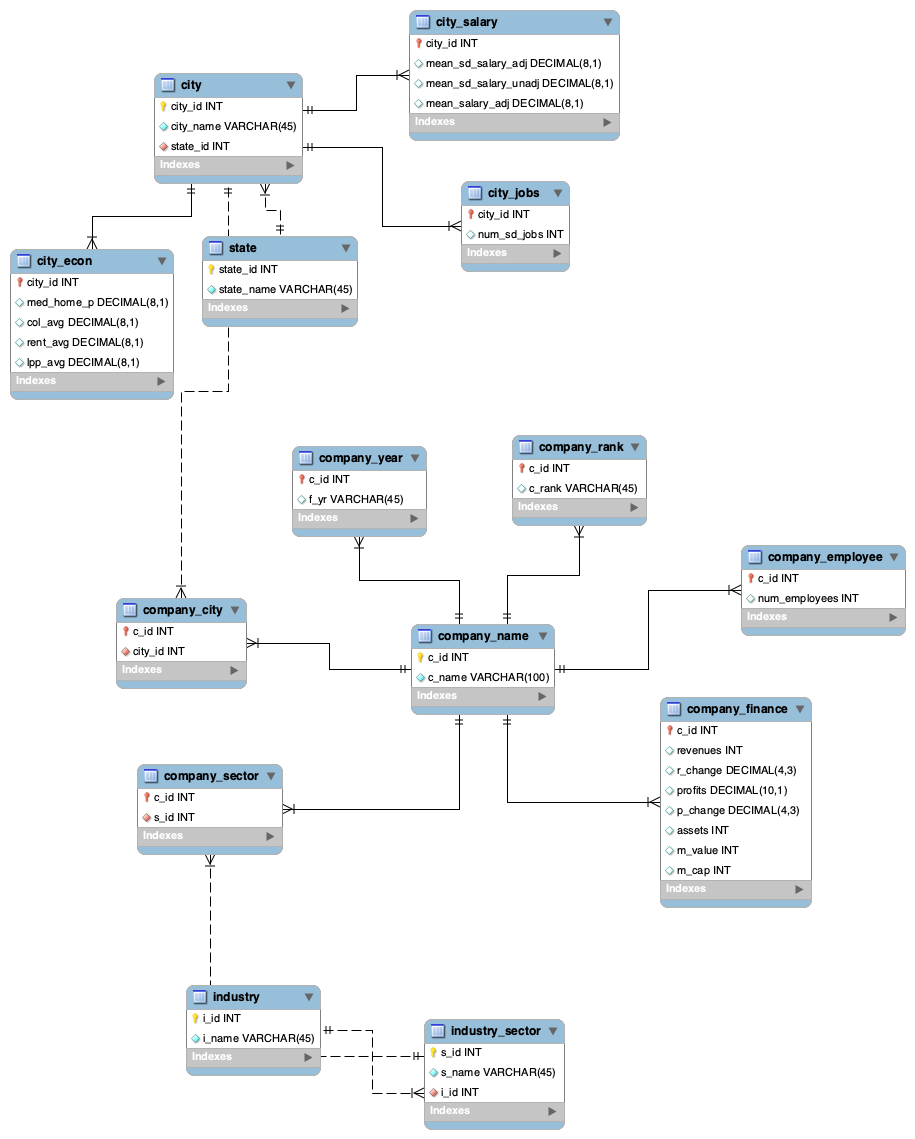
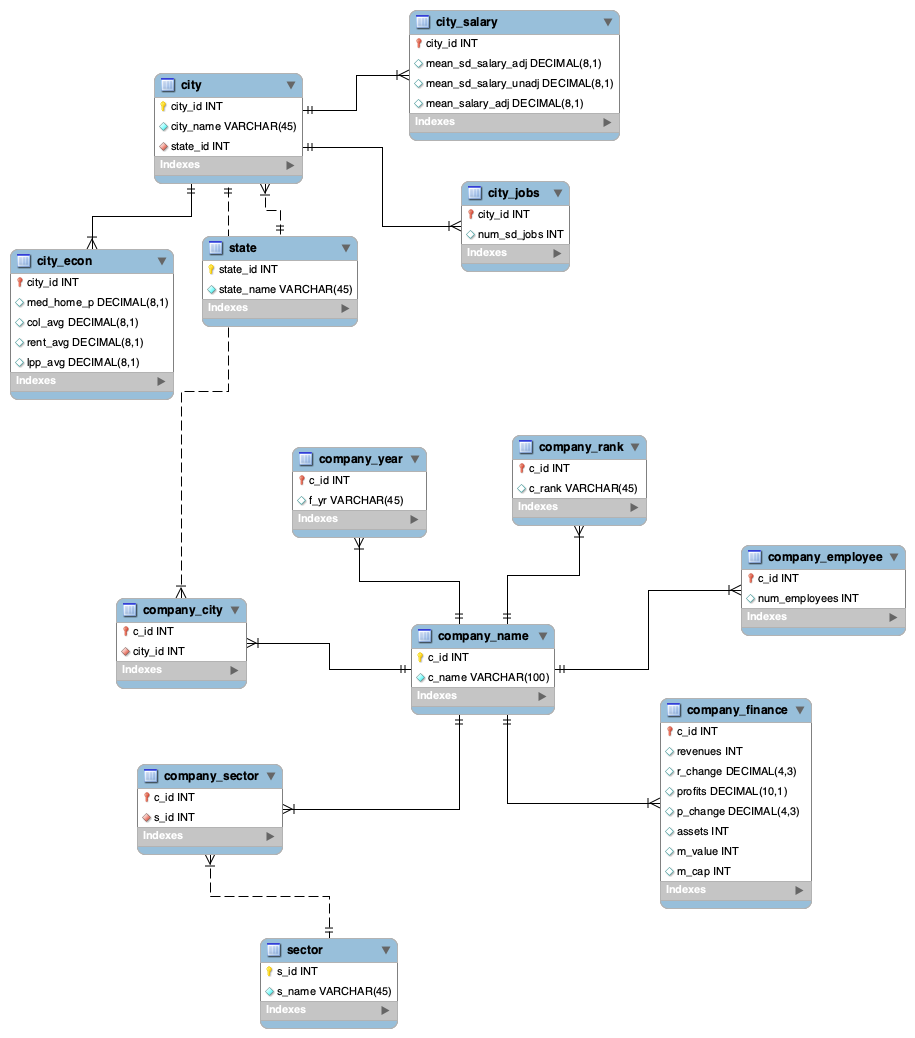
modified EER and fleshed out plan

diff --git a/plan.md b/plan.md
@@ -1,0 +1,93 @@
+# Pseudocode
+
+## Pre-import Manipulation
+
+main tasks
+
+- normalize company names
+  - normalize to all lower case
+  - standardize names according to `Fortune 500 Companies US.csv`: eg. 'Apple' might appear as 'Apple' or 'Apple Inc.' We would change all instances of 'Apple' to 'Apple Inc.' if the company is referred to 'Apple Inc.' in `Fortune 500 Companies US.csv`.
+
+- delete unecessary columns
+
+- data transformation
+  - convert data format as required by the database schema
+  
+
+### Fortune 500 Companies US.csv
+
+- fix importing error
+- rename the file to `Fortune_500_Companies_US.csv`
+- change all `Company Name` to lowercase
+- change `Number of Employees` data type to `INT`
+- delete the dollar sign and commas from `Revenue`, `Profits`, `Assets`, and `Market Value` columns
+- change the percentages to floats from `Revenue Change` and `Profit Change` column
+
+### Fortune_500_Corporate_Headquarters.csv
+
+- fix importing error
+- change all `NAME` to lowercase
+- only keep `NAME`, `CITY`, and `STATE` columns
+
+### Top 50 US Tech Companies 2022 - 2023.csv
+
+- rename the file to `Top_50_US_Tech_Companies.csv`
+- standardize `Company name`
+- remove the `Industry` column
+- remove all columns after `Founding Year`
+
+### city_salary.csv
+
+- name the first column `city_id`
+- replace the second column with the `City` column and delete the `Metro` column
+
+
+## Import processes
+
+### import csv's as individual tables
+I will use the Table Data Import Wizard provided in MySQL Workbench to import the csv's.
+
+One error that occurred when I tried was: 
+
+`Unhandled exception: 'ascii' codec can't decode byte 0xd5 in position 3467: ordinal not in range(128)`
+
+After some research and testing I am still not able to fix this problem.
+
+### forward engineer the EER diagram to create tables
+
+Need to delete the foreign key constraint name in every occurrence in the automatically produced code to create the schemas.
+
+## Post-import Manipulation
+
+main tasks
+
+- data validation
+  - make sure that all the company names match and there is only one unique company name referring to a company. Eg. There should be no 'Apple' and 'Apple Inc' or 'Walmart' and 'walmart'.
+  - make sure that all the values are right and not missing
+  - make sure that data types align
+  - no redundancy
+  
+- data cleaning and modification
+  - modify the data to help with the next step
+  - specifially, parse `City` column in `city_salary` into two columns: `City` and `State`
+
+- organize information from the csv-produced tables into the EER-produced tables
+  - company_name
+    - put all `company name` from `Fortune_500_Companies_US` into the `company_name` table
+    - put all `Company Name` from `Top_50_US_Tech_Companies` that's not already in the `company_name` table into the `company_name` table
+  - sector
+    - put all distinct `Sector` from `Top_50_US_Tech_Companies` into the `sector` table
+  - state
+    - put all distinct `state` from `city_salary` into the `state` table
+  - city
+    - put all `city` from `city_salary` into the `city` table and match with `state_id`
+  - city_econ, city_jobs, city_salary
+    - update from `city_salary`
+  - company_city
+    - update from `Fortune_500_Corporate_Headquarters`
+  - company_sector
+    - update from `Top_50_US_Tech_Companies`
+  - company_year
+    - update from `Top_50_US_Tech_Companies`
+  - company_rank, company_employee, company_finance
+    - update from `Fortune_500_Companies_US`
